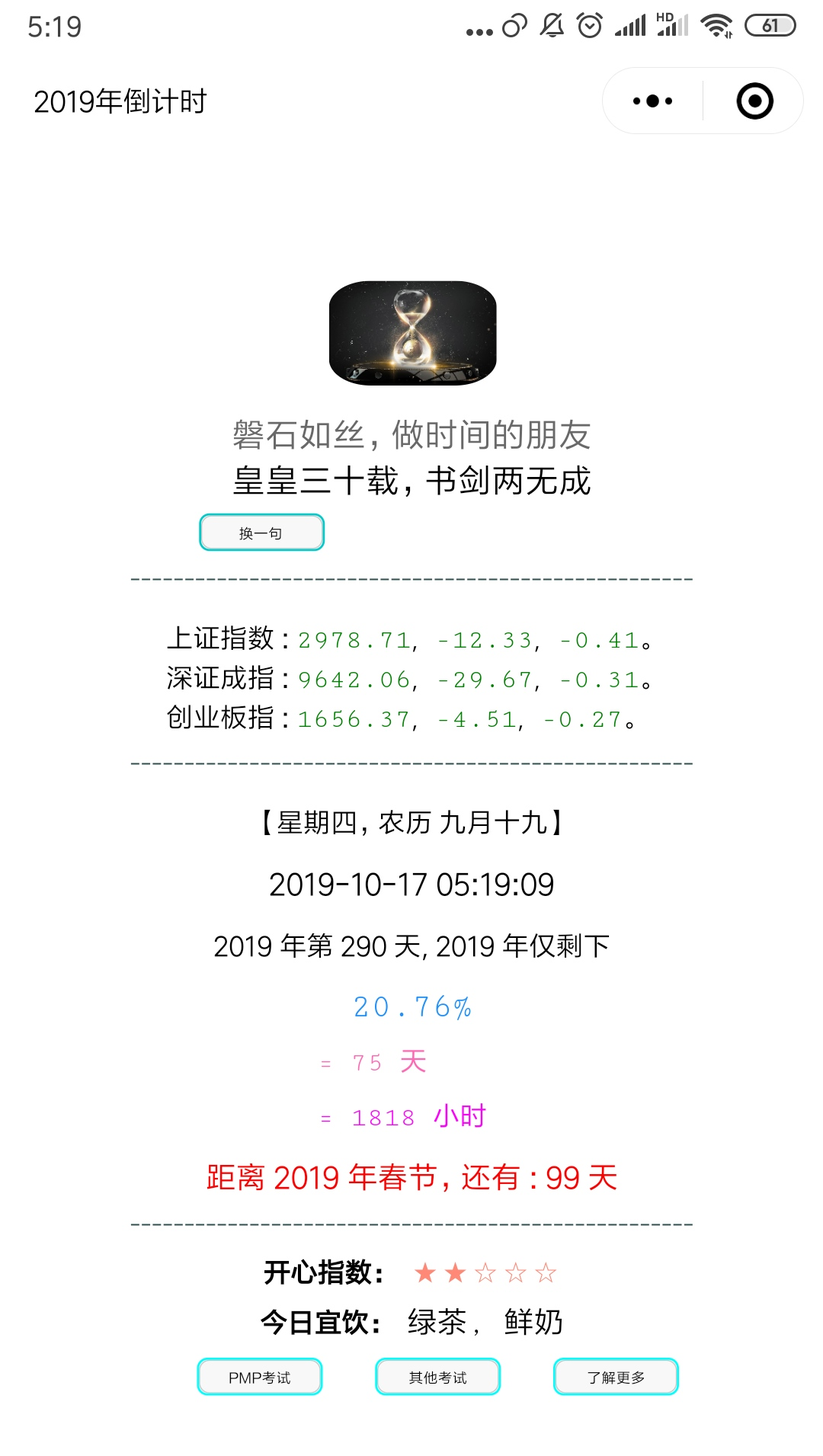
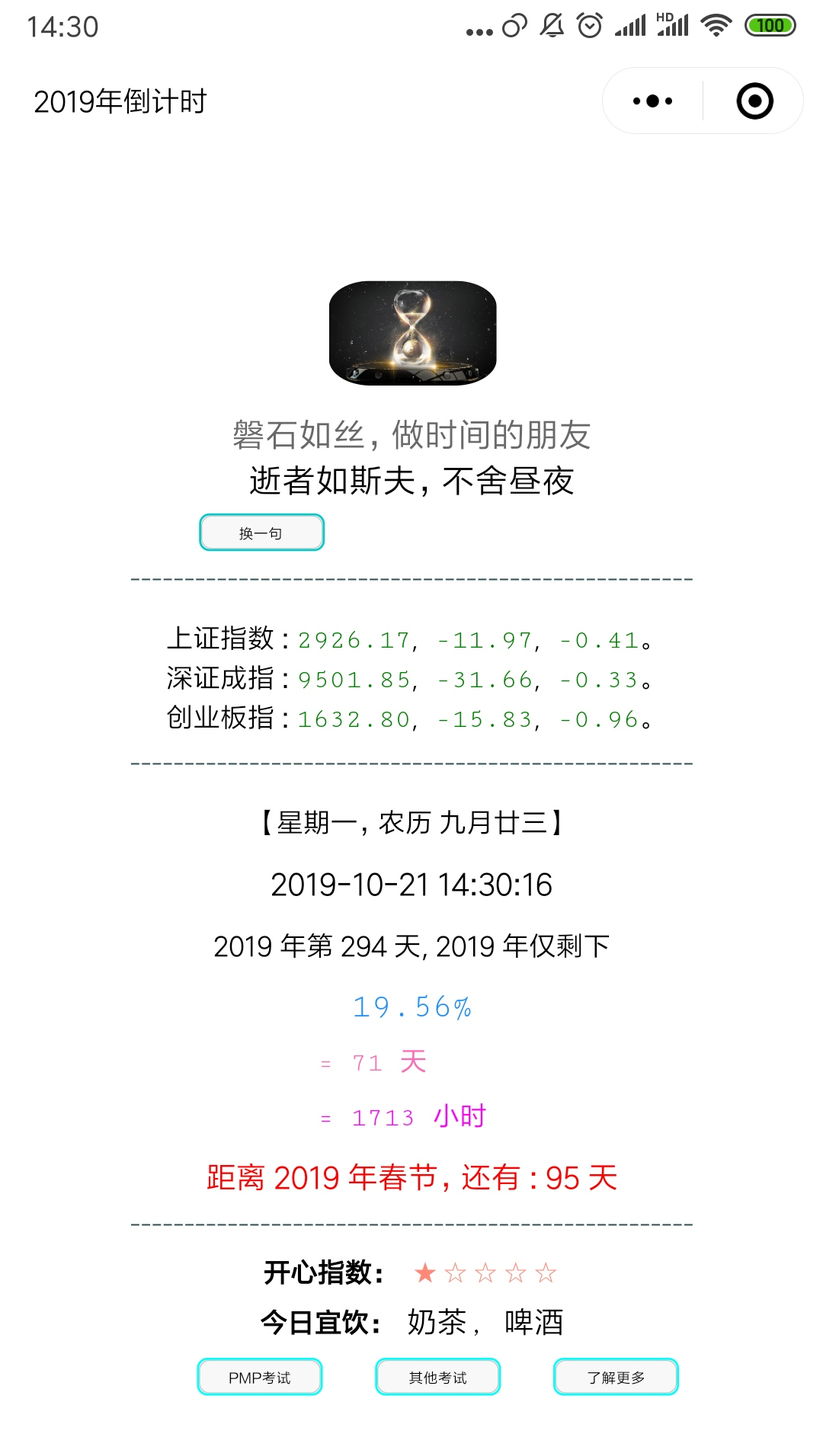
add 206_how_to_read_a_book.md

diff --git a/source/_posts/206_how_to_read_a_book.md b/source/_posts/206_how_to_read_a_book.md
@@ -1,0 +1,270 @@
+---
+title: 书评书摘 — 《如何阅读一本书》
+tags:
+  - Linux
+  - 后端技术
+  - 优化
+comments: true
+toc: true
+categories:
+  - 技术相关
+  - 技术综合
+abstract: 'Welcome to my blog, enter password to read.'
+message: 'Welcome to my blog, enter password to read.'
+copyright: true
+abbrlink: ba44a3eb
+keywords:
+  - Kernel
+  - Linux Kernel
+  - elixir
+  - ipc
+  - arch
+description: 写这个公众号的目的就是“授人以鱼不如授人以渔”，今天要推荐的《如何阅读一本书》就是阅读方面非常重要的“渔”！
+photos:
+  - /images/206/pre.jpg
+date: 2019-10-21 05:00:00
+password:
+---
+<script type="text/javascript" src="/js/src/bai.js"></script>
+
+#### 书评书摘 — 《如何阅读一本书》
+> 写这个公众号的目的就是“授人以鱼不如授人以渔”，今天要推荐的《如何阅读一本书》就是阅读方面非常重要的“渔”！
+>
+> ![《如何阅读一本书》](/images/206/002.gif)
+
+---
+
+##### 为什么要推荐这本书？
+> 写这个公众号的目的就是“授人以鱼不如授人以渔”，今天要推荐的《如何阅读一本书》就是阅读方面非常重要的“渔”！主要有两个重要的原因：
+>
+> 原因 1
+>>
+>> 现在大家都逐渐意识到一个现象 —— 如今的阅读水平普遍是很差的。即使一本不算难、不算很厚的书，很多人也无法读完、更更别提理解。有些人甚至连阅读一篇较长的文章（超过 5000 字）都做不到。
+>
+> 原因 2
+>>
+>> 我之前给朋友、同事都有推荐过书，自己也每年有推荐书单的 磐石读书会成立/读书荐书更新，甚至我给别人送过书的，但是我收到的很多反馈是：很多人即使收到我送的书，也不怎么读的，我猜测很多人还是因为阅读技巧太差导致进入不愿意读书、读书收获不大的恶性循环的。
+>
+> 假如你觉得自己阅读技巧不够，那么《如何阅读一本书》这本书值得你“从头看完”的。
+
+##### 这本书的影响力有多大
+> 这本书最早出版于 1940 年（这个年代，可能很多人的父母还没出生），出版当时立刻就成为畅销书，还被翻译成多种文字。到 1972 年又出了一个修订版，补充了很多的内容。本文介绍的就是上世纪 70 年代的那个版本。
+>
+> 一本书历经这么久，还值得还单独写一篇文章来推荐，足以说明其价值。
+>
+> 下面，我会结合自己的阅读体会，对此书做一下内容简介。
+>
+> 强调一下：《如何阅读一本书》这是看我的内容简介是远远不够的，自己一定要花时间把这本书从头到尾看完！！！
+
+##### 阅读的目的
+> 在书的第 1 章 —— 阅读的活力与艺术，就总结了阅读的 3 种目的：娱乐消遣、获取资讯、增进理解力。
+>
+> 1. 以“娱乐消遣”为目的
+>
+>> “娱乐消遣”这种阅读目的，大家都很清楚，这里不做解释的。
+>
+> 2. 以“获取资讯”为目的
+>>
+>> “获取资讯”这种阅读目的，你只是获取信息，只需要动用“记忆力”。所以，这种阅读是比较轻松的。轻松的代价就是—— 这样的阅读给你的帮助不够大。
+>
+> 3. 以“增进理解力”为目的
+>>
+>> “增进理解力”这种阅读目的，如果某本书的内容超出了你的理解力，或者超出了你所熟悉的领域，那么你就需要花一定的力气才能读懂。这时候，光靠记忆力就远远不够了。你需要动用大脑的其它能力（分析、推理、总结、想像、等）。显然，这种阅读过程伴随着更多的思考，可以让你的头脑提升到新的高度。
+>
+> “获取资讯”和“增进理解力”，可能很多人不太清楚这两者的区别。打一个不太恰当的比方：“获取资讯”如同在平地走路，而“增进理解力”如同爬山。
+
+##### 主动阅读 vs 被动阅读
+> 所谓的“主动阅读”，指的是：你要带着问题去阅读，要一边阅读一边思考。通常称之为“挖掘式的阅读”。“被动阅读”恰恰与之相反，在阅读过程中没有思考。通常称之为“灌输式的阅读”。
+>
+> 如果阅读目的是“增进理解力”，就是典型的主动阅读；如果是为了“娱乐消遣”，基本上是被动阅读；至于目的是“获取资讯”的阅读，则两者兼而有之。
+
+###### 被动阅读为何盛行？
+>>
+>> 如今大部分人只懂得“灌输式的阅读”，我觉得主要原因有两个：
+>>
+>> 1. 教育体制
+>>>
+>>> 目前的教育体制，一直以来都是“灌输式”的。这样的教育培养出来的人，显然比较适应被动的阅读（被动灌输），而无法进行主动的阅读（主动挖掘）。另外，目前教育，一直以来就没有系统性地培养独立思维能力，尤其是“批判性思维”的能力。
+>>
+>> 2. 快餐文化
+>>>
+>>> 现在的人，大部分人把很多的时间花在娱乐消遣性的阅读，长期以往，主动阅读的能力就逐渐退化。这方面的危害，微博、知乎、豆瓣、抖音、快手…… 尤其明显（窃以为，抖音、快手也算阅读的一种）。
+
+###### 怎样才是“带着问题阅读”呢？
+> 那么，怎样才是“带着问题阅读”呢？作者写道：关于一本书，你一定要提出 4 个主要的问题。
+>
+> 1. 整体来说，这本书到底在谈些什么？
+>>
+>> 你一定要想办法找出这本书的主题，作者如何依次发展这个主题，如何逐步从核心主题分解出从属的关键议题来。
+>
+> 2. 作者主要说了什么，怎么说的？
+>>
+>> 你一定要想办法找出主要的想法、声明与论点。这些组合成作者想要传达的特殊讯息。
+>
+> 3. 这本书说得有道理吗？
+>>
+>> 这本书是全部有道理，还是部分有道理？除非你能回答前两个问题，否则你没法回答这个问题。在你判断这本书是否有道理之前，你必须先了解整本书在说些什么才行。然而，等你了解了一本书，如果你又读得很认真的话，你会觉得有责任为这本书做个自己的判断。光是知道作者的想法是不够的。
+>
+> 4. 这本书跟你有什么关系？
+>
+>> 如果这本书给了你一些资讯，你一定要问问这些资讯有什么意义。为什么这位作者会认为知道这件事很重要？你真的有必要去了解吗？如果这本书不只提供了资讯，还启发了你，就更有必要找出其他相关的、更深的含意或建议，以获得更多的启示。
+
+> 更多内容，请看此书的第 5 章 —— 如何做一个自我要求的读者。
+
+##### 阅读的层次
+> 这本书的重点内容在于：介绍了 4 种阅读层次。
+>
+> 为什么是“层次”而不称“类型”，因为层次有“高低之分”，而且层次之间是递进关系而不是并列关系 —— 上面的层次需要依赖下面层次的技能。
+
+###### 1. 基础阅读
+> 顾名思义，基础阅读这是最基本的阅读层次。在这个层次，只需要你做到“读懂书籍字面上的意思”。需要的技能仅仅是：识字、断句、联系上下文等。
+>
+> 显然，大部分人都已经具备这个层次了 —— 不具备这个层次的人，相当于半文盲。
+>
+> 对于这个层次，只是在第 3 章大概介绍了一下”基础阅读“。因为咱们都不是学龄前儿童，所以这个层次不是重点。
+
+###### 2. 检视阅读
+>此书的第 4 章介绍“检视阅读”的各种技巧。
+>
+> 检视阅读有时候也可以称为“略读”。它要达到的目的就是：在非常有限的时间内，大致搞清楚一本书的内容和主题。
+>
+> 很多人可能看不起“略读”，其实这个技能是很有用滴。掌握“检视阅读”这个技能，有助于你用尽可能短的时间，判断一本书的优劣。这样就避免在烂书上浪费太多时间。另外，在后续的“主题阅读”层次，也非常依赖“检视阅读”的能力。
+>
+> 举个例子：现在推荐书单和推荐书的人很多，这时候我就会优先采用“检视阅读”的各种技巧，快速判断该书的价值，是否值得我一读。
+
+###### 3. 分析阅读
+> 分析阅读有时候也可以称为“精读”。一看到“精读”这个词，你就知道这是重要的技能了。显然，只有对有价值的书，才值得花力气做“分析阅读”。“烂书或平庸的书”是没有这种待遇的。
+>
+> 这本书花了大量的篇幅来介绍“分析阅读”。这部分是此书“重点中的重点”。分析阅读包括如下 3 个阶段：
+>
+> 3.1 第 1 阶段 —— 这本书在谈些啥
+>>
+>> 主要在第 7 章介绍。这个阶段你需要做如下 4 件事情。
+>>
+>> 3.1.1 依照书本的种类与主题作分类；
+>>
+>> 3.1.2 用最简短的句子说出整本书在谈些什么；
+>>
+>> 3.1.3 按照顺序与关系，列出全书的重要部分，将全书的纲要拟出来之后，再将各个部分的纲要也 —— 列出；
+>>
+>> 3.1.4 找出作者在问的问题，或作者想要解决的问题。
+>
+> 3.2 第 2 阶段 —— 诠释整本书的内容
+>>
+>> 主要在第 8 章和第 9章 介绍。这个阶段你需要做如下 4 件事情。
+>>
+>> 3.2.1 找出重要的、关键性的词汇，透过它们与作者达成共识；
+>>
+>> 3.2.2 从最重要的句子里抓出作者的重要主旨；
+>>
+>> 3.2.3 找出作者在论述些啥，重新架构这些论述的因果关系，以明白作者的主张；
+>>
+>> 3.2.4 搞清楚作者已经解决了哪些问题，还有哪些是未解决的。在未解决的问题中，哪些是作者认为自己无法解决的。
+>
+> 3.3 第 3 阶段 —— 评价这本书
+>>
+>> 主要在第 10 章和第 11 章介绍。
+>>
+>> 3.3.1 除非你已掌握某本书的架构，也能诠释整本书了，否则不要轻易评论；
+>>
+>> 3.3.2 不要争强好胜，非辩到底不可；
+>> 3.3.3 在说出评论之前，你要能区分出书中的“事实”与“观点”；
+>>
+>> （如果要做出批评性的评价，需要做到如下几条之一）
+>>
+>> 3.3.4 证明作者的知识不足；
+>>
+>> 3.3.5 证明作者的知识有误；
+>>
+>> 3.3.6 证明作者的逻辑错误；
+>>
+>> 3.4.7 证明作者的分析与理由不够完整。
+>
+> 另外，在第 12 章介绍了辅助阅读。辅助阅读包括利用外在的工具和资源（比如工具书，百科全书、字典、等）辅助阅读某本书。说到“百科全书”，这里提一下。如今百科类的网站已经很成熟了。这类网站可以非常有效地作为阅读的辅助工具。在所有的百科类网站中，本人强烈推荐“维基百科” —— 其内容之丰富是无与伦比的，而且包括多语种，有助于提升你阅读英文的功底。
+
+###### 4. 主题阅读
+> 关于主题阅读，主要在第 20 章介绍。
+>
+> 所谓的“主题阅读”，通俗而言就是：为了研究某个主题，阅读跟该主题相关的多本书籍。这种阅读主要包括 5 个步骤：
+>
+> 4.1 找到这几本书的相关章节
+>>
+>> 找相关章节，这时候，“检视阅读”又派上用场了。
+>
+> 4.2 带引作者与你达成共识
+>>
+>> 这个步骤有点类似于“分析阅读”的第 2 阶段。
+>
+> 4.3 厘清问题
+>>
+>> 你可以列出一些问题，然后看看这几本书能否回答这些问题。
+>
+> 4.4 界定议题
+>>
+>> 如果几本不同的书籍都能够回答同一个问题，并且答案有差异。那么，你可以根据答案的差异、作者的情况、进而判断出这个问题的价值。
+>>
+>> 比方说：如果某个问题，多本书的作者给出全然不同的答案，而且这几本书的作者在立场的客观性、分析的全面性、思维的深度等方面都足够。那么这个问题就是一个非常有价值的问题，值得深入思考。
+>
+> 4.5 分析讨论
+>>
+>> 找到有价值的问题之后，就需要通过自己的综合分析，思考一下："为什么"这几本书的作者，对同一个问题会有不同的答案。如果你能想明白，那么你对该主题所处的领域，就有了更深刻的理解。
+>
+> 所有问题中，”为什么“类型的问题，通常是最值得思考的问题
+
+##### 如何读不同类型的书籍
+> 《如何阅读一本书》这本书的如下章节，分别介绍了具体类型的书籍，有哪些阅读技巧。
+>
+> 第13章 如何阅读实用型的书
+>
+> 第14章 如何阅读想像文学
+>
+> 第15章 如何阅读故事、戏剧、诗歌
+>
+> 第16章 如何阅读历史书
+>
+> 第17章 如何阅读科学与数学
+>
+> 第18章 如何阅读哲学书
+>
+> 第19章 如何阅读社会科学
+
+
+##### 阅读与心智的成长
+> 这是此书最后一章的内容，包括如下 3 个小节：
+
+###### 1. 好书能带来什么帮助？
+> 前面介绍的，都是关于“如何更好地阅读”，但是书籍本身的好坏也很重要。关于好书的重要性，我这里摘录一段：
+>
+> 读一本好书，是会让你的努力有所回报。最好的书对你的回馈也最多。当然，这样的回馈分成两种：第一，当你成功地阅读了一本难读的好书之后，你的阅读技巧必然增进了；第二（长期来说这一点更重要）一本好书能教你了解这个世界以及你自己。你不只更懂得如何读得更好，还更懂得生命。你变得更有智慧，而不只是更有知识—像只提供讯息的书所形成的那样。你会成为一位智者，对人类生命中永恒的真理有更深刻的认知。
+>
+> 请注意这段提到的两个词"知识"和"智慧" —— 只提供讯息的书，带给你“知识”；而真正的好书带给你“智慧”。至于消遣性的书，既不会给你知识，也不会给你智慧。
+
+###### 2. 书籍的金字塔
+> 书籍的好坏是符合"二八原理"的！书籍的金字塔，包括 3 层：
+>
+> 2.1 第 1 层
+>>
+>> 99% 的书籍对于你的能力提升是毫无帮助的。这 99% 里面，相当大一部分书是“消遣性”的，还有一些可能是跟你完全无关的领域。显然，这些书籍是不需要进行“分析阅读”的。
+>
+> 2.2 第 2 层
+>>
+>> 这一层次的书籍，你至少要做一次完整的“分析阅读”。经过一次分析阅读之后，你基本上就“读通”了，知道这本书的主要精华。一旦读通，以后你就无需再去阅读。顶多是偶尔拿出来翻看个别重点，复习某些片段。
+>
+> 2.3 第 3 层
+>>
+>> 这一层次的书，非常非常少。它们的特点是：你无法通过一次完整的“分析阅读”，就把它读通。甚至有可能你进行了 N 次分析阅读，也无法尽其究竟。
+>
+> 为什么会这样划分呢？
+>>
+>> 为什么会这样划分呢？这里介绍一下第 2 层与第 3 层之间的微妙差异：
+>>
+>> 第 2 层的书，当你进行多次分析阅读，每次的收获会变少。因为你的本人的积累增多了，理解力提升了，而书的内容是固定的。显然每次阅读，收获降低了。
+>>
+>> 第 3 层的书，随着你的能力提升，每一次对该书进行分析阅读，你的收获都是全新的。甚至有可能后面的阅读，收获会更多。为啥会这样捏？因为这类书的作者，境界远远高于你本人。有可能在你一生的不同阶段都可以反复阅读同一本书，始终有收获。因为你始终达不到该书作者的境界。
+
+###### 3. 生命与心智的成长
+> 这一节有两段话，我摘录如下（粗体是我自己标注的），希望能激发大家对思考的热情：
+>
+> 人类的心智有很奇怪的一点，主要是这一点划分了我们心智与身体的截然不同。**我们的身体是有限制的，心智却没有限制**。其中一个迹象是，在力量与技巧上，身体不能无限制地成长。人们到了 30 岁左右，身体状况就达到了巅峰，随着时间的变化，身体的状况只有越来越恶化，而**我们的头脑却能无限地成长与发展下去**。我们的心智不会因为到了某个年纪死就停止成长，只有当大脑失去活力，僵化了，才会失去了增加技巧与理解力的力量。
+>
+> **这是人类最明显的特质，也是万物之灵与其他动物最主要不同之处**。其他的动物似乎发展到某个层次之后，便不再有心智上的发展。但是人类独有的特质，却也潜藏着巨大的危险。**心智就跟肌肉一样，如果不常运用就会萎缩**。心智的萎缩就是在惩罚我们不经常动脑。这是个可怕的惩罚，因为证据显示，心智萎缩也可能要人的命。除此之外，似乎也没法说明为什么许多工作忙碌的人一旦退休之后就会立刻死亡。他们活着是因为工作对他们的心智上有所要求，那是一种人为的支撑力量，也就是外界的力量。一旦外界要求的力量消失之后，他们又没有内在的心智活动，他们便停止了思考，死亡也跟着来了。

diff --git a/source/_posts/001_2-FD_my_life_records-2019.md b/source/_posts/001_2-FD_my_life_records-2019.md
@@ -1,5 +1,5 @@
 ---
-title: 坚持的力量之数据人生-2019年10月17日
+title: 坚持的力量之数据人生-2019年10月21日
 tags:
   - 数据人生
   - 参考模板
@@ -20,14 +20,14 @@ keywords:
   - 宽978高553
 photos:
   - '/images/001_2/photos.png'
-description: 今天：2019 年 10 月 17 日，2019 年仅剩下 75 天。坚持记录和分析生活中的数据、信息和事件，尊重历史数据、信息和事件，人生将会更美好。
-date: 2019-10-17 00:02:05
+description: 今天：2019 年 10 月 21 日，2019 年仅剩下 71 天。坚持记录和分析生活中的数据、信息和事件，尊重历史数据、信息和事件，人生将会更美好。
+date: 2019-10-21 00:02:05
 ---
 <script type="text/javascript" src="/js/src/bai.js"></script>
 
-### 坚持的力量之数据人生-2019年10月17日
+### 坚持的力量之数据人生-2019年10月21日
 ------
-> 今天：2019 年 10 月 17 日，2019 年仅剩下 75 天。坚持记录和分析生活中的数据、信息和事件，尊重历史数据、信息和事件，人生将会更美好。
+> 今天：2019 年 10 月 21 日，2019 年仅剩下 71 天。坚持记录和分析生活中的数据、信息和事件，尊重历史数据、信息和事件，人生将会更美好。
 >
 > 序言：坚持记录和分析生活中的数据、信息和事件，尊重历史数据、信息和事件，人生将会更美好。
 
@@ -72,14 +72,14 @@ date: 2019-10-17 00:02:05
 
 | 序号 |       名称                                            |  类型  | 开始/结束日期 | 总天数 |          备注                           |
 | :--: | :---------------------------------------------------: | :----: | :-----------: | :----: | :-------------------------------------: |
-|  1   | <font color="#FF0000" size=2>读书荐书第 1/4 更</font> | 倒计时 | 2020/01/01    |  76    | 开始时间：2019/10/1                     |
-|  2   | <font color="#FF0000" size=2>重要节点</font>          | 倒计时 | 2020/03/01    |  136   | 开始时间：2018/6/15 剩余 10 个月        |
-|  3   | <font color="#0000FF" size=2>来上海</font>            | 计时   | 2011/06/25    |  3034  | 第 8 年进行中                           |
-|  4   | <font color="#0000FF" size=2>莫名其妙的计时</font>    | 计时   | 2018/11/12    |  340   | 莫名其妙的计时，希望永远不会停 ！！！   |
-|  5   | <font color="#FF00FF" size=2>博客总计博文</font>      | 计数   | 2018/08/01    |  208   | [博客](/archives) 博文总计数目          |
+|  1   | <font color="#FF0000" size=2>读书荐书第 1/4 更</font> | 倒计时 | 2020/01/01    |  72    | 开始时间：2019/10/1                     |
+|  2   | <font color="#FF0000" size=2>重要节点</font>          | 倒计时 | 2020/03/01    |  132   | 开始时间：2018/6/15 剩余 10 个月        |
+|  3   | <font color="#0000FF" size=2>来上海</font>            | 计时   | 2011/06/25    |  3038  | 第 8 年进行中                           |
+|  4   | <font color="#0000FF" size=2>莫名其妙的计时</font>    | 计时   | 2018/11/12    |  344   | 莫名其妙的计时，希望永远不会停 ！！！   |
+|  5   | <font color="#FF00FF" size=2>博客总计博文</font>      | 计数   | 2018/08/01    |  209   | [博客](/archives) 博文总计数目          |
 |  6   | <font color="#FF00FF" size=2>读书心得札记</font>      | 计数   | 2018/05/26    |  69    | [读书心得笔记并做笔记](/tags/札记人生/) |
 |  7   | <font color="#FF00FF" size=2>五篇好文推荐</font>      | 计数   | 2018/10/24    |  50    | [美文推荐](/tags/美文推荐/)             |
-|  8   | <font color="#FF00FF" size=2>公众号更新</font>        | 计数   | 2018/12/01    |  134   | [微信公众号（105 篇删除）](https://mp.weixin.qq.com/s/NeWQwn2MEXcDCE0PGOhigA) |
+|  8   | <font color="#FF00FF" size=2>公众号更新</font>        | 计数   | 2018/12/01    |  137   | [微信公众号（105 篇删除）](https://mp.weixin.qq.com/s/NeWQwn2MEXcDCE0PGOhigA) |
 
 #### 2. ❤ 今天记账了吗？记了，✔。 ❤
 ##### 2.1 记账信息详情
@@ -87,12 +87,11 @@ date: 2019-10-17 00:02:05
 
 | 日期                                   | 记账新增记录 | 记账总记录 | 记账总天数 | 记账时间      | 备注     |
 | :------:                               | :------:     | :------:   | :------:   | :------:      | :------: |
-|<font color="#000000"> 20191012 </font> | 5            | 11042      | 3147       | 8 年零 226 天 | 无       |
-|<font color="#000000"> 20191013 </font> | 7            | 11049      | 3148       | 8 年零 227 天 | 无       |
-|<font color="#000000"> 20191014 </font> | 4            | 11053      | 3149       | 8 年零 228 天 | 无       |
-|<font color="#000000"> 20191015 </font> | 8            | 11061      | 3150       | 8 年零 229 天 | 无       |
-|<font color="#000000"> 20191016 </font> | 4            | 11065      | 3151       | 8 年零 230 天 | 无       |
-|<font color="#FF0000"> 20191017 </font> | 7            | 11072      | 3152       | 8 年零 231 天 | 无       |
+|<font color="#000000"> 20191017 </font> | 7            | 11072      | 3152       | 8 年零 231 天 | 无       |
+|<font color="#000000"> 20191018 </font> | 9            | 11081      | 3153       | 8 年零 232 天 | 无       |
+|<font color="#000000"> 20191019 </font> | 5            | 11086      | 3154       | 8 年零 233 天 | 无       |
+|<font color="#000000"> 20191020 </font> | 9            | 11095      | 3155       | 8 年零 234 天 | 无       |
+|<font color="#FF0000"> 20191021 </font> | 8            | 11103      | 3156       | 8 年零 235 天 | 无       |
 
 
 #### 3. 历史数据汇总

diff --git a/source/_posts/001_1-FD_2018_year_all_checker-2019.md b/source/_posts/001_1-FD_2018_year_all_checker-2019.md
@@ -1,5 +1,5 @@
 ---
-title: 2019年每日日常综合打卡-2019年10月17日
+title: 2019年每日日常综合打卡-2019年10月21日
 tags:
   - 数据人生
   - 参考模板
@@ -21,14 +21,14 @@ keywords:
   - 宽978高553
 photos:
   - '/images/001_1/photos.png'
-description: 今天：2019 年 10 月 17 日，2019 年仅剩下 75 天。每天坚持打卡，10 月份针对每个任务打卡，慢慢来，一切都会更好的。
-date: 2019-10-17 00:01:01
+description: 今天：2019 年 10 月 21 日，2019 年仅剩下 71 天。每天坚持打卡，10 月份针对每个任务打卡，慢慢来，一切都会更好的。
+date: 2019-10-21 00:01:01
 ---
 <script type="text/javascript" src="/js/src/bai.js"></script>
 
-### 2019年每日日常综合打卡-2019年10月17日
+### 2019年每日日常综合打卡-2019年10月21日
 ---
-> 今天：2019 年 10 月 17 日，2018 年仅剩下 75 天。每日打卡，10 月份针对每个任务打卡，慢慢来，一切都会更好的。
+> 今天：2019 年 10 月 21 日，2018 年仅剩下 71 天。每日打卡，10 月份针对每个任务打卡，慢慢来，一切都会更好的。
 ---
 
 #### [我的微信公众号](https://mp.weixin.qq.com/s/36xLUoQlvcFFlSdNr6DghQ)
@@ -72,10 +72,10 @@ date: 2019-10-17 00:01:01
 | 15 |二 ⭕  |五 ⭕  |五 ⭕  |一 ⭕  |三 ⭕  |六 ⭕  |一 ⭕  |四 ⭕  |日 ⭕  |二 ⭕  |五     |日     |
 | 16 |三 ⭕  |六 ⭕  |六 ⭕  |二 ⭕  |四 ⭕  |日 ⭕  |二 ⭕  |五 ⭕  |一 ⭕  |三 ⭕  |六     |一     |
 | 17 |四 ⭕  |日 ⭕  |日 ⭕  |三 ⭕  |五 ⭕  |一 ⭕  |三 ⭕  |六 ⭕  |二 ⭕  |四 ⭕  |日     |二     |
-| 18 |五 ⭕  |一 ⭕  |一 ⭕  |四 ⭕  |六 ⭕  |二 ⭕  |四 ⭕  |日 ⭕  |三 ⭕  |五     |一     |三     |
-| 19 |六 ⭕  |二 ⭕  |二 ⭕  |五 ⭕  |日 ⭕  |三 ⭕  |五 ⭕  |一 ⭕  |四 ⭕  |六     |二     |四     |
-| 20 |日 ⭕  |三 ⭕  |三 ⭕  |六 ⭕  |一 ⭕  |四 ⭕  |六 ⭕  |二 ⭕  |五 ⭕  |日     |三     |五     |
-| 21 |一 ⭕  |四 ⭕  |四 ⭕  |日 ⭕  |二 ⭕  |五 ⭕  |日 ⭕  |三 ⭕  |六 ⭕  |一     |四     |六     |
+| 18 |五 ⭕  |一 ⭕  |一 ⭕  |四 ⭕  |六 ⭕  |二 ⭕  |四 ⭕  |日 ⭕  |三 ⭕  |五 ⭕  |一     |三     |
+| 19 |六 ⭕  |二 ⭕  |二 ⭕  |五 ⭕  |日 ⭕  |三 ⭕  |五 ⭕  |一 ⭕  |四 ⭕  |六 ⭕  |二     |四     |
+| 20 |日 ⭕  |三 ⭕  |三 ⭕  |六 ⭕  |一 ⭕  |四 ⭕  |六 ⭕  |二 ⭕  |五 ⭕  |日 ⭕  |三     |五     |
+| 21 |一 ⭕  |四 ⭕  |四 ⭕  |日 ⭕  |二 ⭕  |五 ⭕  |日 ⭕  |三 ⭕  |六 ⭕  |一 ⭕  |四     |六     |
 | 22 |二 ⭕  |五 ⭕  |五 ⭕  |一 ⭕  |三 ⭕  |六 ⭕  |一 ⭕  |四 ⭕  |日 ⭕  |二     |五     |日     |
 | 23 |三 ⭕  |六 ⭕  |六 ⭕  |二 ⭕  |四 ⭕  |日 ⭕  |二 ⭕  |五 ⭕  |一 ⭕  |三     |六     |一     |
 | 24 |四 ⭕  |日 ⭕  |日 ⭕  |三 ⭕  |五 ⭕  |一 ⭕  |三 ⭕  |六 ⭕  |二 ⭕  |四     |日     |二     |
@@ -110,10 +110,10 @@ date: 2019-10-17 00:01:01
 | 15 <font color="#000000">二</font> | ⭕        | ⭕        | ⭕        | ⭕        | ⭕        | ⭕        |            |
 | 16 <font color="#000000">三</font> | ⭕        | ⭕        | ⭕        | ⭕        | ⭕        | ⭕        |            |
 | 17 <font color="#000000">四</font> | ⭕        | ⭕        | ⭕        | ⭕        | ⭕        | ⭕        |            |
-| 18 <font color="#000000">五</font> |           |           |           |           |           |           |            |
-| 19 <font color="#FF0000">六</font> |           |           |           |           |           |           |            |
-| 20 <font color="#FF0000">日</font> |           |           |           |           |           |           |            |
-| 21 <font color="#000000">一</font> |           |           |           |           |           |           |            |
+| 18 <font color="#000000">五</font> | ⭕        | ⭕        | ⭕        | ⭕        | ⭕        | ⭕         |            |
+| 19 <font color="#FF0000">六</font> | ⭕        | ⭕        | ⭕        | ⭕        | ⭕         | ⭕        |            |
+| 20 <font color="#FF0000">日</font> | ⭕        | ⭕        | ⭕        | ⭕        | ⭕        | ⭕        |            |
+| 21 <font color="#000000">一</font> | ⭕        | ⭕        | ⭕        | ⭕        | ⭕        | ⭕        |            |
 | 22 <font color="#000000">二</font> |           |           |           |           |           |           |            |
 | 23 <font color="#000000">三</font> |           |           |           |           |           |           |            |
 | 24 <font color="#000000">四</font> |           |           |           |           |           |           |            |

diff --git a/source/mail-to/index.md b/source/mail-to/index.md
@@ -2,4 +2,4 @@
 title: 邮件联系我
 ---
 
-<a href="mailto:shix_112@163.com?subject=To Geek-panshi。我想和你聊一聊"> 邮箱为： shix_112@163.com，点击可以发邮件给我的。</a>
+<a href="mailto:shix_112@126.com?subject=To Geek-panshi。我想和你聊一聊"> 邮箱为： shix_112@126.com，点击可以发邮件给我的。</a>
